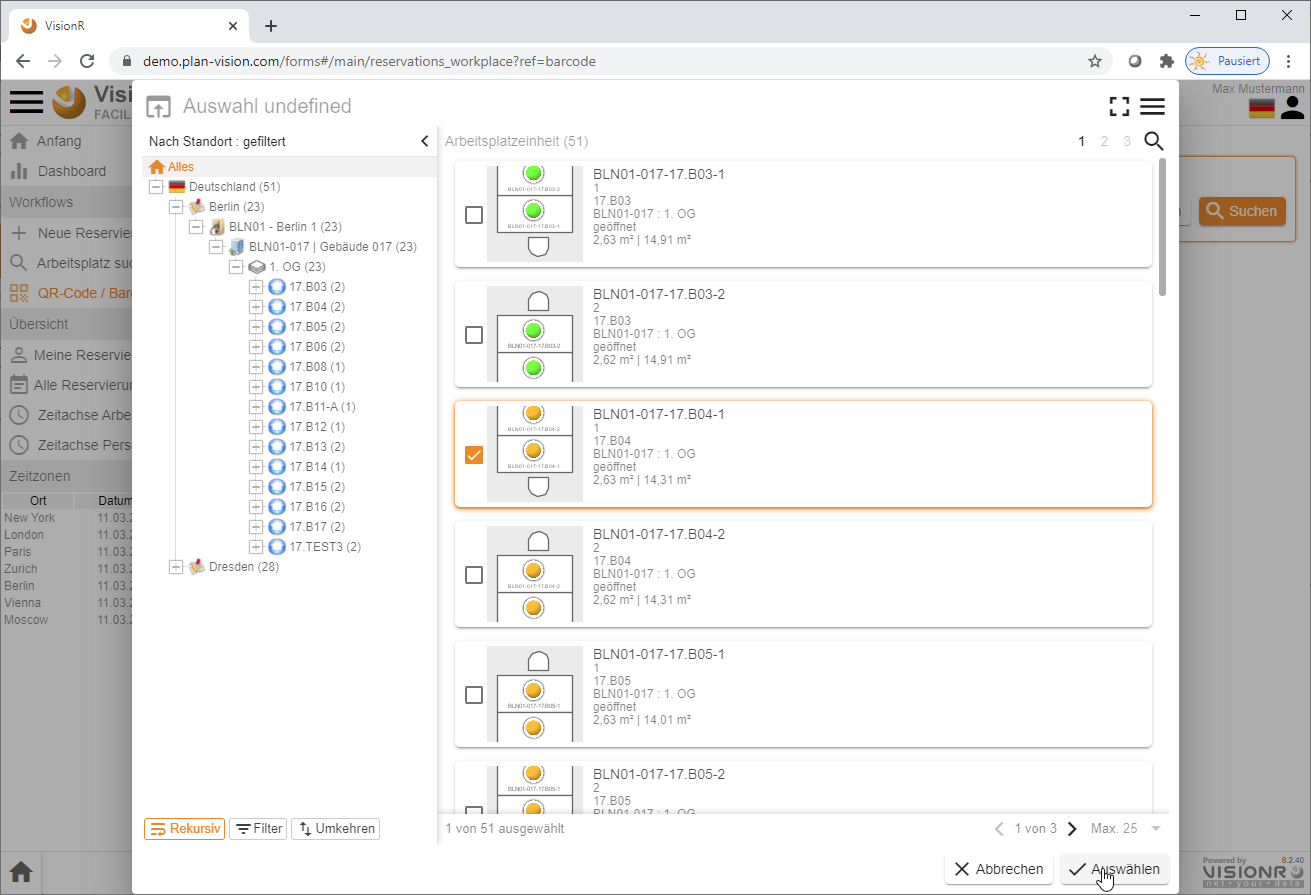
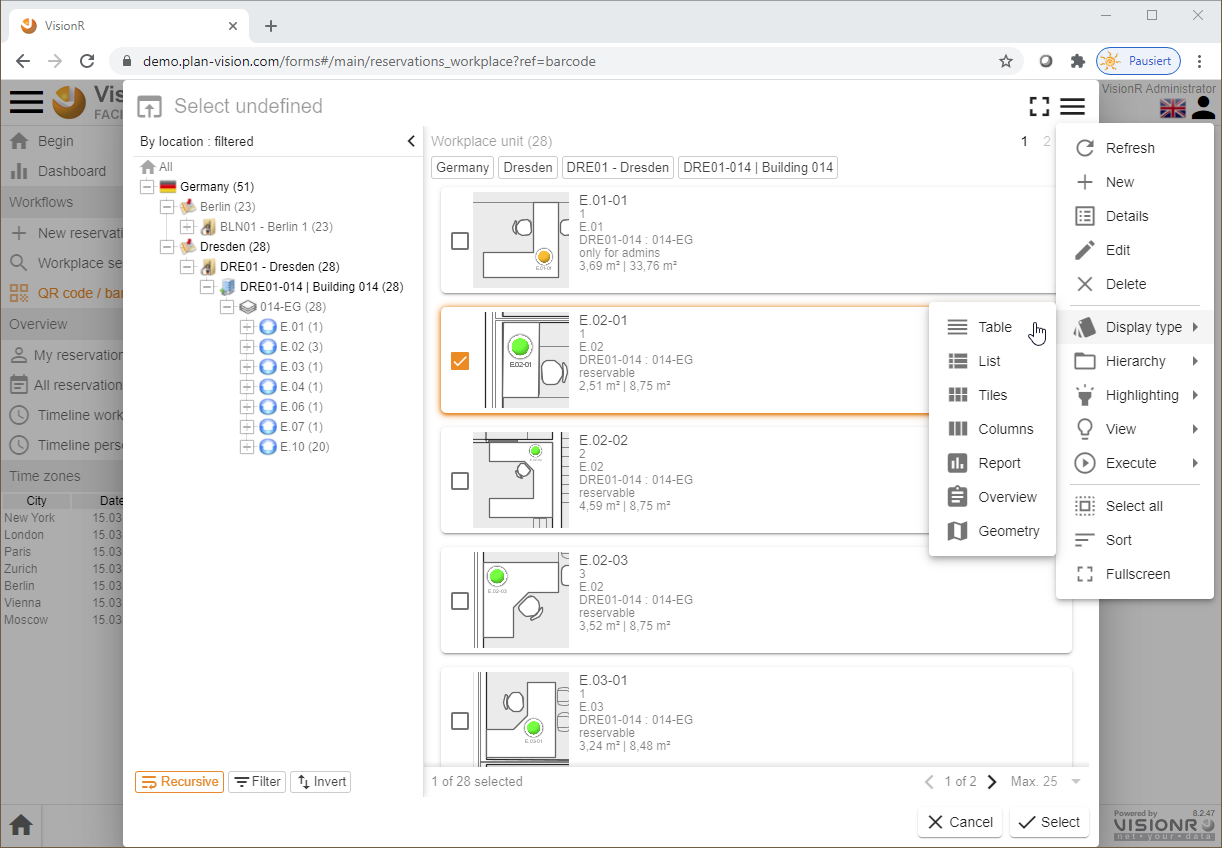
Work on FlexiWorkplace

diff --git a/en/user-guide/apps/flexi-workplace-desktop.md b/en/user-guide/apps/flexi-workplace-desktop.md
@@ -200,15 +200,15 @@ After you select multiple workplaces you will be able to make a group reservatio
 # Reserve with OR code / barcode
 Click on the button `Reserve with QR code / barcode` on the begin page in FlexiWorkplace. As an alternative you can use the main menu, which can be displayed clicking on the three lines beside the logo, if hidden. In the main menu use the button `QR code / barcode`. The mask for ad-hoc reservations will be displayed.
 
-![Result](_images/flexi-workplace-desktop/barcode-scan.png)
+![Result](_images/flexi-workplace-desktop/barcode-dropdown.png)
 
 *Image 20: Scan QR code / barcode to identify a workplace*
 
-To be able to use the scan feature, the workplace you are standing in front of must have a QR code or barcode sticker on it. In the desktop version or if a sticker is missing you can select the workplace in the dropdown or using the floor plan.
+To be able to use the scan feature, the workplace you are standing in front of must have a QR code or barcode sticker on it. In the desktop version or if a sticker is missing you can select the workplace in the dropdown or using the floor plan. You can select the workplace in an advanced select view, making use of search option like search field, hierarchy tree by location etc. You can switch between list and table view in the search popup using the button *"View type" > "Table"* in the context menu, which is reachable by clicking on the three lines in the top right corner. The search view pops up, when you double click the input for "Workplace unit".
 
-![Result](_images/flexi-workplace-desktop/barcode-dropdown.png)
+![Result](_images/flexi-workplace-desktop/barcode-search-table.png)
 
-*Image 21: Scan a QR code / barcode*
+*Image 21: Select workplace in a search popup*
 
 You can select a workplace in the floor plan using the menu button with the three lines at the right end of the input for "Workplace unit". This button pops up a menu, where an option `From drawing` is available. Click on this option and the floor plan pops up in select mode. Here you can select the preferred workplace and confirm by clicking on the tick button in the bottom right corner of the popup.
 

diff --git a/de/user-guide/admin/flexi-workplace.md b/de/user-guide/admin/flexi-workplace.md
@@ -96,8 +96,23 @@ Wenn Sie sich im Modul Admin FlexiWorkplace befinden und den Menüeintrag `Arbei
 
 *Bild 9: Rechtsklick im Datenbereich zeigt Kontextmenü mit Eintrag `+ Neu`*
 
+> **Hinweis:** Neue Datensätze können entweder durch Rechtsklick im Datenbereich oder bei Klick auf das Datenmenü oben rechts unter der Personenikone und dann auf `+ Neu` erstellt werden. Zusätzlich besteht die Möglichkeit den Pluszeichen unten rechts im Datenbereich anzuklicken.
+
 ![Index](_images/flexi-workplace/new-dialog.png)
 
 *Bild 10: Dialog neue Arbeitsplatzeinheit*
+
+Bei der neu erstellten Arbeitsplatzeinheit müssen die Standortdaten eingegeben werden. Dazu muss ein Arbeitsplatz und ein Raum aus dem Flächenmanagement vorhanden sein.
+
+# Arbeitsplatzeinheit bearbeiten
+
+Wenn Sie die App "Admin FlexiWorkplace" öffnen müssen Sie im Hauptmenü (immer erreichbar über die drei Striche oben links neben dem Logo) den Eintrag `Arbeitsplatzeinheiten` anklicken. Rechts werden die Arbeitsplätze, die reserviert werden können in Listen- oder Tabellen-Ansicht angezeigt. Klicken Sie ein ein Arbeitsplatz an, um es auszuwählen. Dann machen Sie einen Rechtsklick mit der Maus, um das Kontextmenü anzeigen zu lassen. Im Kontextmenü gehen Sie auf `Bearbeiten`. Alternativ können Sie die drei Striche unter der Personenikone anklicken, um das Kontextmenü aufzumachen und den Button `Bearbeiten` aufzumachen.
+
+> **Hinweis:** Doppelklick auf den Arbeitsplatz in der Tabelle oder in der Liste ruft ein Dialog mit Details auf. Auf diesem Dialogfenster ist untern links ein Button `Bearbeiten` vorhanden, falls Sie die Zugriffsrechte für die Bearbeitung des jeweiligen Datensatzes besitzen.
+
+![Index](_images/flexi-workplace/list-right-click.png)
+
+*Bild 11: Rechtsklick bei markiertem Arbeitsplatz*
+
 
 

diff --git a/de/user-guide/apps/flexi-workplace-desktop.md b/de/user-guide/apps/flexi-workplace-desktop.md
@@ -209,7 +209,7 @@ Der Arbeitsplatz muss mit einem QR- oder Barcode ausgestattet sein, um diese Fun
 
 ![Ergebnis Plan](_images/flexi-workplace-desktop/barcode-search-table.png)
 
-*Bild 21: QR-/Barcode vor Ort einscannen*
+*Bild 21: Arbeitsplatz in Pop-up auswählen*
 
 Die Suche im Plan können Sie im Feld "Arbeitsplatzeinheit" durch Anklicken des Menübuttons mit den drei Strichen am Ende des Eingabefeldes Aufrufen. Dort klicken Sie auf den Menüeintrag `Aus Zeichnung`. Dadurch öffnen Sie den Plan im Auswahlmodus.
 
